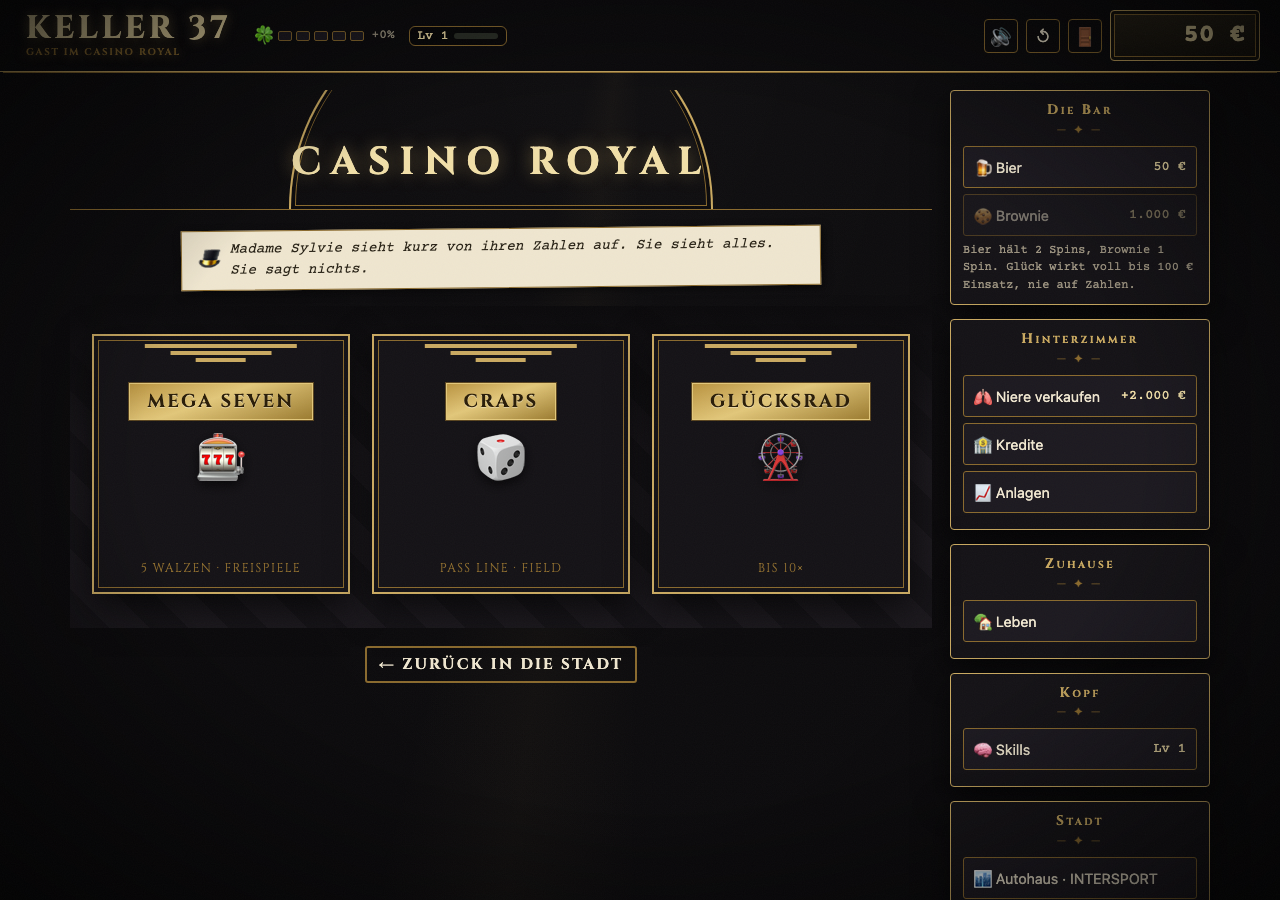
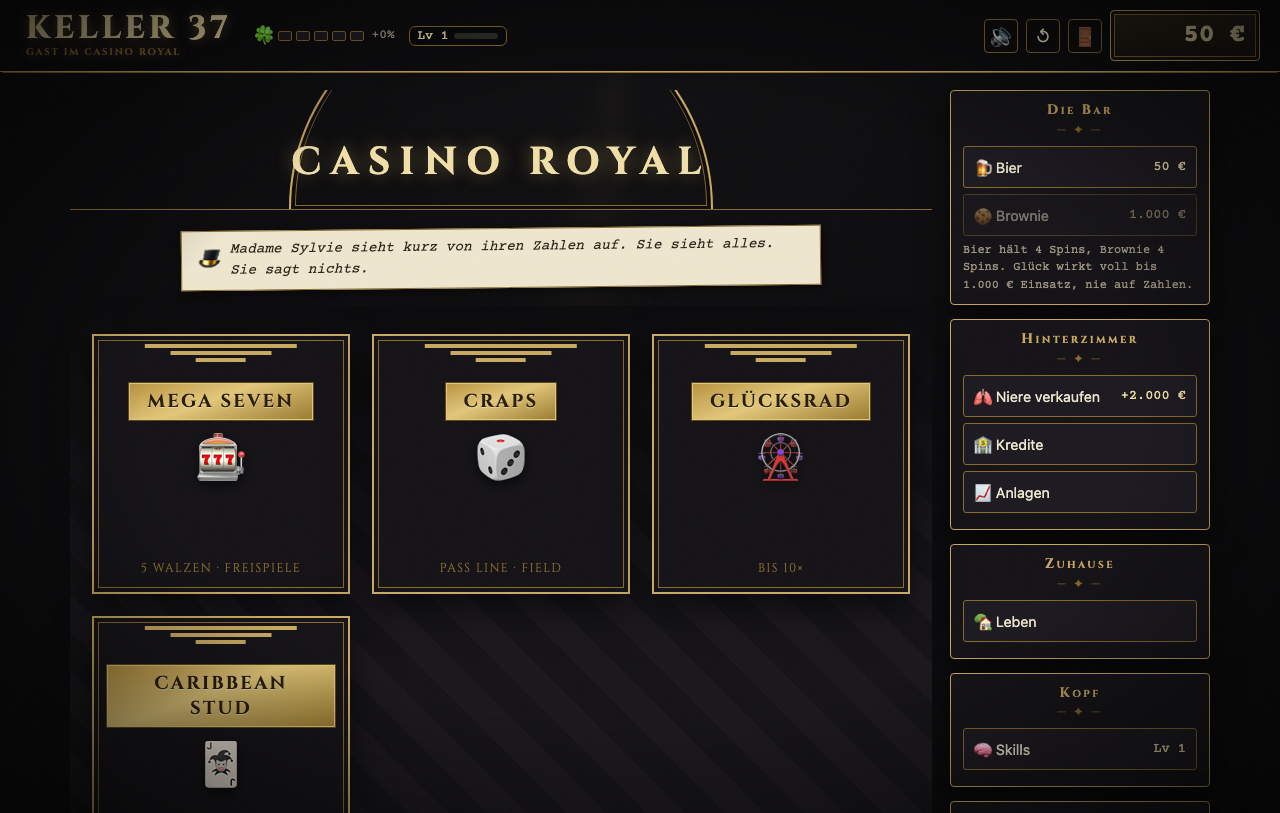
test(stud): Playtest-Szenario Caribbean Stud, Screenshots Lobby und Tisch

Changed region(s): [[0.0625, 0.123, 0.7188, 0.984], [0.0, 0.0, 1.0, 1.0]]

diff --git a/tests/playtest-story.py b/tests/playtest-story.py
@@ -1966,6 +1966,115 @@ async def scenario_poker(cdp):
     record("poker: in Story 1 Tag 1 gesperrt", locked is True, "locked=%s" % locked)
 
 
+async def scenario_stud(cdp):
+    """Caribbean Stud im Royal: Portal, festes Deck (Zwei Paare gegen Paar), Mitgehen -> Bonus 2:1, Dealer nicht
+    qualifiziert -> Ante 1:1, Passen, Flush -> Achievement, Screen verlassen laesst die Hand fallen, Insider-Blick mit Kappe."""
+    await cdp.navigate(URL_BASE + "?fresh&mode=free&screen=royal")
+    await asyncio.sleep(0.8)
+    await cdp.inject_helpers()
+    portal = await cdp.eval("!!document.querySelector('.portal[data-screen=\"stud\"]')", await_promise=False)
+    record("stud: Portal in der Royal-Lobby", portal is True)
+    await cdp.screenshot("royal-lobby.png")
+    await cdp.eval("State.s.car = 'audiA3'; State.s.balance = 1000; State.save(); UI.renderWallet(); 0", await_promise=False)
+    await cdp.eval("UI.show('stud'); 0", await_promise=False)
+    await asyncio.sleep(0.6)
+    zone = await cdp.eval("document.body.dataset.zone", await_promise=False)
+    record("stud: Zone royal", zone == "royal", zone)
+    # forceDeck wird von oben abwechselnd verteilt: Index 0,2,4,6,8 Spieler, 1,3,5,7,9 Dealer
+    def deck_js(player, dealer):
+        cards = []
+        for p, d in zip(player, dealer):
+            cards.append(p); cards.append(d)
+        arr = ", ".join("C('%s','%s')" % (c[:-1], c[-1]) for c in cards)
+        return ("(function(){ const C = (val, suit) => ({ val, suit }); const top = [%s];"
+                " const rest = Rules.newDeck(Math.random).filter(c => !top.some(x => x.val === c.val && x.suit === c.suit));"
+                " Stud.forceDeck = [...top, ...rest]; })(); 0") % arr
+
+    async def play(player, dealer, ante, action):
+        await cdp.eval(deck_js(player, dealer), await_promise=False)
+        await cdp.eval("document.querySelector('.chip[data-chip=\"%d\"]').click(); 0" % ante, await_promise=False)
+        before = await cdp.eval("State.s.balance", await_promise=False)
+        await cdp.click("#btnStudDeal")
+        await cdp.wait_for("Stud.round && Stud.round.phase === 'decide'", timeout=5.0)
+        after_deal = await cdp.eval("State.s.balance", await_promise=False)
+        hidden = await cdp.eval("document.querySelectorAll('#studDealerCards .pcard.hidden-card').length", await_promise=False)
+        if action == "shot":
+            await cdp.screenshot("royal-stud.png")
+            action = "call"
+        await cdp.click("#btnStudCall" if action == "call" else "#btnStudFold")
+        await cdp.wait_for("!Stud.inRound", timeout=8.0)
+        await asyncio.sleep(0.5)
+        after = await cdp.eval("State.s.balance", await_promise=False)
+        status = await cdp.eval("document.querySelector('#studStatus').textContent", await_promise=False)
+        return before, after_deal, hidden, after, status
+
+    # Trophaeen liegen im Meta-Speicher und ueberleben ?fresh und fruehere Laeufe im selben Chrome-Profil: hier zuruecksetzen
+    await cdp.eval("State.meta.achievements = State.meta.achievements.filter(id => id !== 'karibik'); State.saveMeta(); 0", await_promise=False)
+    # 1) Zwei Paare gegen Paar 9, Ante 100: Bet 200, Bonus 2:1 -> net +500
+    b0, bd, hidden, b1, status = await play(["K♠", "K♥", "7♣", "7♠", "2♥"], ["9♦", "9♣", "5♠", "4♦", "Q♥"], 100, "shot")
+    ach = await cdp.eval("Achievements.has('karibik')", await_promise=False)
+    record("stud: Geben bucht Ante ab, 4 Dealer-Karten verdeckt, Mitgehen gewinnt Bonus 2:1 (+500)",
+           bd == b0 - 100 and hidden == 4 and b1 == b0 + 500 and "Bonus 2:1" in status and ach is False,
+           "b0=%s deal=%s hidden=%s b1=%s status=%s ach=%s" % (b0, bd, hidden, b1, status, ach))
+    # 2) Dealer A-Q nicht qualifiziert: Ante 1:1, Bet zurueck -> net +100
+    b0, bd, hidden, b1, status = await play(["9♠", "9♥", "K♦", "4♣", "2♠"], ["A♠", "Q♦", "J♣", "9♥", "2♠"], 100, "call")
+    record("stud: Dealer nicht qualifiziert zahlt Ante 1:1 (+100)", b1 == b0 + 100 and "nicht qualifiziert" in status, "b0=%s b1=%s status=%s" % (b0, b1, status))
+    # 3) Passen: Ante weg
+    b0, bd, hidden, b1, status = await play(["9♠", "9♥", "K♦", "4♣", "2♠"], ["A♠", "K♦", "J♣", "9♥", "2♠"], 100, "fold")
+    hidden_after = await cdp.eval("document.querySelectorAll('#studDealerCards .pcard.hidden-card').length", await_promise=False)
+    record("stud: Passen verliert die Ante, Dealer bleibt verdeckt", b1 == b0 - 100 and hidden_after == 4 and "Gepasst" in status, "b0=%s b1=%s hidden=%s status=%s" % (b0, b1, hidden_after, status))
+    # 4) Flush gegen Paar -> Achievement
+    b0, bd, hidden, b1, status = await play(["2♥", "5♥", "8♥", "J♥", "K♥"], ["9♦", "9♣", "5♠", "4♦", "Q♠"], 100, "call")
+    ach = await cdp.eval("Achievements.has('karibik')", await_promise=False)
+    record("stud: Flush gewinnt Bonus 5:1 (+1100) und Trophaee Karibische Nacht", b1 == b0 + 1100 and ach is True, "b0=%s b1=%s ach=%s status=%s" % (b0, b1, ach, status))
+    # 5) Screen verlassen mitten in der Hand -> Ante verfallen
+    await cdp.eval(deck_js(["9♠", "9♥", "K♦", "4♣", "2♠"], ["A♠", "Q♦", "J♣", "9♥", "2♠"]), await_promise=False)
+    await cdp.click("#btnStudDeal")
+    await cdp.wait_for("Stud.round && Stud.round.phase === 'decide'", timeout=5.0)
+    before = await cdp.eval("State.s.balance", await_promise=False)
+    await cdp.eval("UI.show('royal'); 0", await_promise=False)
+    await asyncio.sleep(0.5)
+    after = await cdp.eval("State.s.balance", await_promise=False)
+    in_round = await cdp.eval("Stud.inRound", await_promise=False)
+    rnd = await cdp.eval("Stud.round === null", await_promise=False)
+    toast = await cdp.eval("document.querySelector('#toasts').textContent.includes('Hand aufgegeben')", await_promise=False)
+    record("stud: Screen verlassen laesst die Hand fallen (Ante weg, Toast)", after == before and in_round is False and rnd is True and toast is True,
+           "before=%s after=%s inRound=%s round=null:%s toast=%s" % (before, after, in_round, rnd, toast))
+    # 6) Insider Sylvies Blick: Ante 100 -> zweite Dealer-Karte offen; Ante 500 -> verdeckt + Hinweis
+    await cdp.eval("State.meta.insider = ['sylviesblick']; State.saveMeta(); 0", await_promise=False)
+    await cdp.eval("UI.show('stud'); 0", await_promise=False)
+    await asyncio.sleep(0.5)
+    await cdp.eval(deck_js(["9♠", "9♥", "K♦", "4♣", "2♠"], ["A♠", "Q♦", "J♣", "9♥", "2♠"]), await_promise=False)
+    await cdp.eval("document.querySelector('.chip[data-chip=\"100\"]').click(); 0", await_promise=False)
+    await cdp.click("#btnStudDeal")
+    await cdp.wait_for("Stud.round && Stud.round.phase === 'decide'", timeout=5.0)
+    hidden_peek = await cdp.eval("document.querySelectorAll('#studDealerCards .pcard.hidden-card').length", await_promise=False)
+    hint_peek = await cdp.eval("document.querySelector('#studPeek').textContent", await_promise=False)
+    await cdp.click("#btnStudFold")
+    await cdp.wait_for("!Stud.inRound", timeout=5.0)
+    await cdp.eval("State.s.balance = 5000; State.save(); UI.renderWallet(); 0", await_promise=False)
+    await cdp.eval(deck_js(["9♠", "9♥", "K♦", "4♣", "2♠"], ["A♠", "Q♦", "J♣", "9♥", "2♠"]), await_promise=False)
+    await cdp.eval("document.querySelector('.chip[data-chip=\"500\"]').click(); 0", await_promise=False)
+    await cdp.click("#btnStudDeal")
+    await cdp.wait_for("Stud.round && Stud.round.phase === 'decide'", timeout=5.0)
+    hidden_cap = await cdp.eval("document.querySelectorAll('#studDealerCards .pcard.hidden-card').length", await_promise=False)
+    hint_cap = await cdp.eval("document.querySelector('#studPeek').textContent", await_promise=False)
+    await cdp.click("#btnStudFold")
+    await cdp.wait_for("!Stud.inRound", timeout=5.0)
+    record("stud: Sylvies Blick zeigt bei Ante 100 die zweite Dealer-Karte, bei 500 verdeckt mit Kappen-Hinweis",
+           hidden_peek == 3 and hint_peek == "🎩 Sylvies Blick" and hidden_cap == 4 and "wirkt bis 250" in hint_cap,
+           "hidden100=%s hint100=%s hidden500=%s hint500=%s" % (hidden_peek, hint_peek, hidden_cap, hint_cap))
+    await cdp.eval("State.meta.insider = []; State.saveMeta(); 0", await_promise=False)
+    # 7) Ante ausserhalb 100-1000: Toast, keine Karten
+    await cdp.eval("document.querySelector('#studBet').value = '50'; 0", await_promise=False)
+    await cdp.click("#btnStudDeal")
+    await asyncio.sleep(0.4)
+    cards = await cdp.eval("document.querySelectorAll('#studPlayerCards .pcard').length", await_promise=False)
+    toast = await cdp.eval("document.querySelector('#toasts').textContent.includes('Zwischen 100')", await_promise=False)
+    in_round = await cdp.eval("Stud.inRound", await_promise=False)
+    record("stud: Ante 50 wird abgelehnt", in_round is False and toast is True, "cards=%s toast=%s inRound=%s" % (cards, toast, in_round))
+
+
 async def main():
     cdp = CDP()
     cdp.launch(mobile=MOBILE)
@@ -1996,6 +2105,7 @@ async def main():
         await scenario_roulette_chips(cdp)
         await scenario_perks(cdp)
         await scenario_poker(cdp)
+        await scenario_stud(cdp)
     finally:
         n_errors = len(cdp.console_errors)
         for e in cdp.console_errors:
